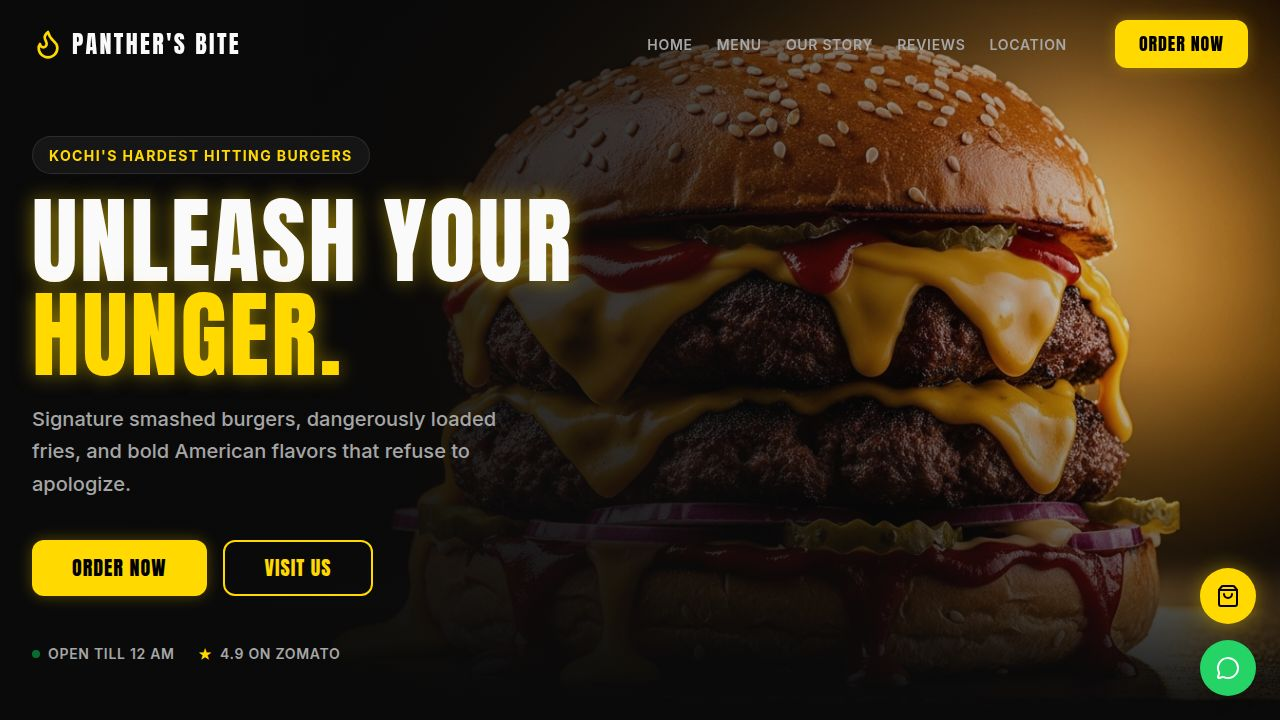
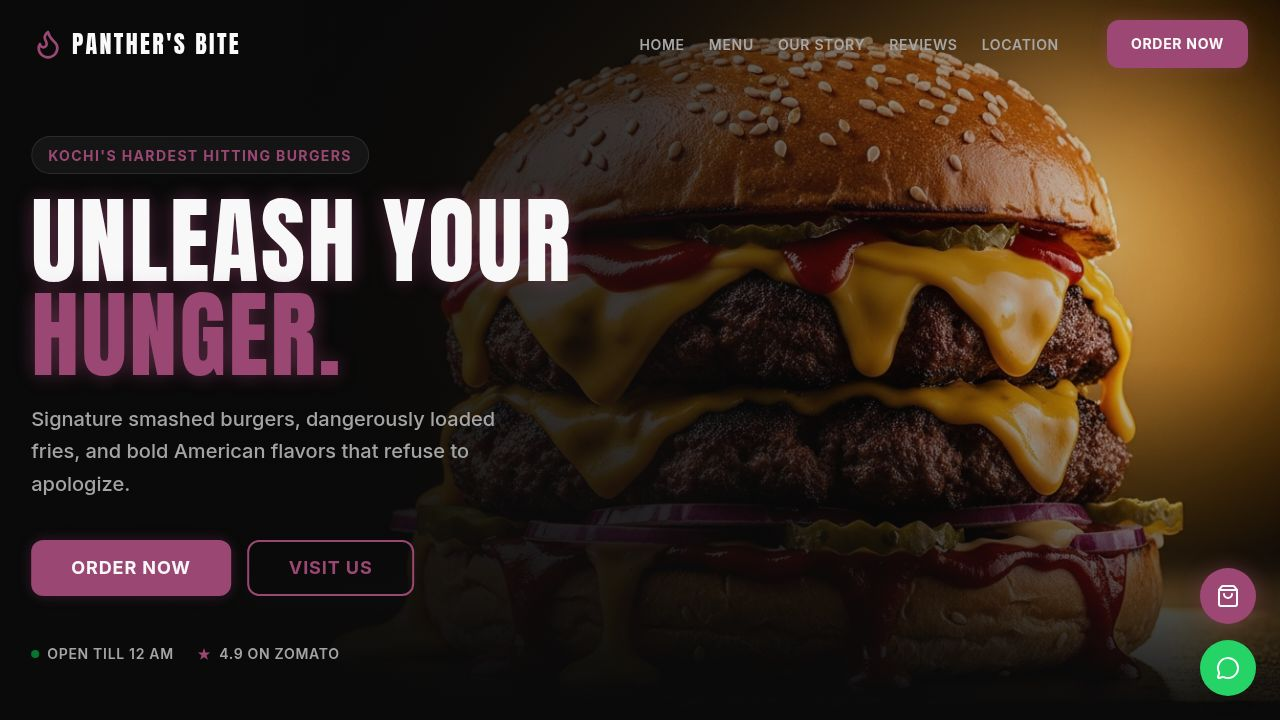
Update the brand color to a new shade of pink
Update CSS variables and component styles to reflect a new primary color (#9d4975), changing button text color for better contrast and updating glow effects.

Replit-Commit-Author: Agent
Replit-Commit-Session-Id: 99f27a6e-ecde-4c6e-831f-a6cb374c541c
Replit-Commit-Checkpoint-Type: full_checkpoint
Replit-Commit-Event-Id: 3e920564-5952-4a85-b92e-73ad6008d823
Replit-Commit-Screenshot-Url: https://storage.googleapis.com/screenshot-production-us-central1/819f82cd-8bfc-4729-bd73-96ec3b2a4df0/99f27a6e-ecde-4c6e-831f-a6cb374c541c/QbD8WjC
Replit-Helium-Checkpoint-Created: true

diff --git a/artifacts/panthers-bite/src/index.css b/artifacts/panthers-bite/src/index.css
@@ -34,9 +34,9 @@
   --popover: 0 0% 10%;
   --popover-foreground: 0 0% 98%;
   
-  /* The Gold Accent */
-  --primary: 51 100% 50%; /* #FFD700 */
-  --primary-foreground: 0 0% 0%; /* Black text on gold */
+  /* The Brand Accent */
+  --primary: 329 37% 45%; /* #9d4975 */
+  --primary-foreground: 0 0% 98%; /* White text on brand colour */
   
   --secondary: 0 0% 15%; /* #262626 */
   --secondary-foreground: 0 0% 98%;
@@ -44,15 +44,15 @@
   --muted: 0 0% 15%;
   --muted-foreground: 0 0% 65%; /* #A6A6A6 */
   
-  --accent: 51 100% 50%;
-  --accent-foreground: 0 0% 0%;
+  --accent: 329 37% 45%;
+  --accent-foreground: 0 0% 98%;
   
   --destructive: 0 84% 60%;
   --destructive-foreground: 0 0% 98%;
   
   --border: 0 0% 20%; /* #333333 */
   --input: 0 0% 20%;
-  --ring: 51 100% 50%;
+  --ring: 329 37% 45%;
   
   --radius: 0.75rem;
 }
@@ -95,10 +95,10 @@
 
 @layer utilities {
   .text-glow {
-    text-shadow: 0 0 20px hsla(51, 100%, 50%, 0.5);
+    text-shadow: 0 0 20px hsla(329, 37%, 45%, 0.5);
   }
   .box-glow {
-    box-shadow: 0 0 30px hsla(51, 100%, 50%, 0.15);
+    box-shadow: 0 0 30px hsla(329, 37%, 45%, 0.15);
   }
   .glass-panel {
     @apply bg-card/80 backdrop-blur-md border border-white/5;

diff --git a/artifacts/panthers-bite/src/components/ui/button.tsx b/artifacts/panthers-bite/src/components/ui/button.tsx
@@ -10,11 +10,11 @@ const buttonVariants = cva(
     variants: {
       variant: {
         default:
-          "bg-primary text-primary-foreground shadow-[0_0_15px_rgba(255,215,0,0.3)] hover:shadow-[0_0_25px_rgba(255,215,0,0.5)] hover:bg-yellow-400 hover:-translate-y-1 active:translate-y-0",
+          "bg-primary text-primary-foreground shadow-[0_0_15px_rgba(157,73,117,0.3)] hover:shadow-[0_0_25px_rgba(157,73,117,0.5)] hover:bg-primary/90 hover:-translate-y-1 active:translate-y-0",
         destructive:
           "bg-destructive text-destructive-foreground shadow-sm hover:bg-destructive/90",
         outline:
-          "border-2 border-primary text-primary bg-transparent hover:bg-primary hover:text-primary-foreground hover:shadow-[0_0_20px_rgba(255,215,0,0.3)] hover:-translate-y-1 active:translate-y-0",
+          "border-2 border-primary text-primary bg-transparent hover:bg-primary hover:text-primary-foreground hover:shadow-[0_0_20px_rgba(157,73,117,0.3)] hover:-translate-y-1 active:translate-y-0",
         secondary:
           "bg-secondary text-secondary-foreground shadow-sm hover:bg-secondary/80",
         ghost: "hover:bg-accent hover:text-accent-foreground",

diff --git a/artifacts/panthers-bite/src/components/FloatingButtons.tsx b/artifacts/panthers-bite/src/components/FloatingButtons.tsx
@@ -8,7 +8,7 @@ export function FloatingButtons() {
       {/* Order Now Button */}
       <button
         onClick={triggerOrderModal}
-        className="w-14 h-14 rounded-full bg-primary text-black flex items-center justify-center shadow-[0_0_20px_rgba(255,215,0,0.4)] hover:scale-110 transition-transform duration-300 group relative"
+        className="w-14 h-14 rounded-full bg-primary text-white flex items-center justify-center shadow-[0_0_20px_rgba(157,73,117,0.4)] hover:scale-110 transition-transform duration-300 group relative"
       >
         <ShoppingBag className="w-6 h-6" />
         <span className="absolute right-full mr-4 bg-background border border-white/10 text-foreground text-sm font-bold uppercase tracking-wider px-3 py-1 rounded opacity-0 group-hover:opacity-100 transition-opacity pointer-events-none whitespace-nowrap">

diff --git a/artifacts/panthers-bite/src/components/OrderModal.tsx b/artifacts/panthers-bite/src/components/OrderModal.tsx
@@ -39,7 +39,7 @@ export function OrderModal() {
             initial={{ opacity: 0, scale: 0.95, y: 20 }}
             animate={{ opacity: 1, scale: 1, y: 0 }}
             exit={{ opacity: 0, scale: 0.95, y: 20 }}
-            className="relative w-full max-w-md bg-card border-2 border-primary/50 rounded-3xl p-8 shadow-[0_0_50px_rgba(255,215,0,0.15)]"
+            className="relative w-full max-w-md bg-card border-2 border-primary/50 rounded-3xl p-8 shadow-[0_0_50px_rgba(157,73,117,0.15)]"
           >
             <button 
               onClick={close}
